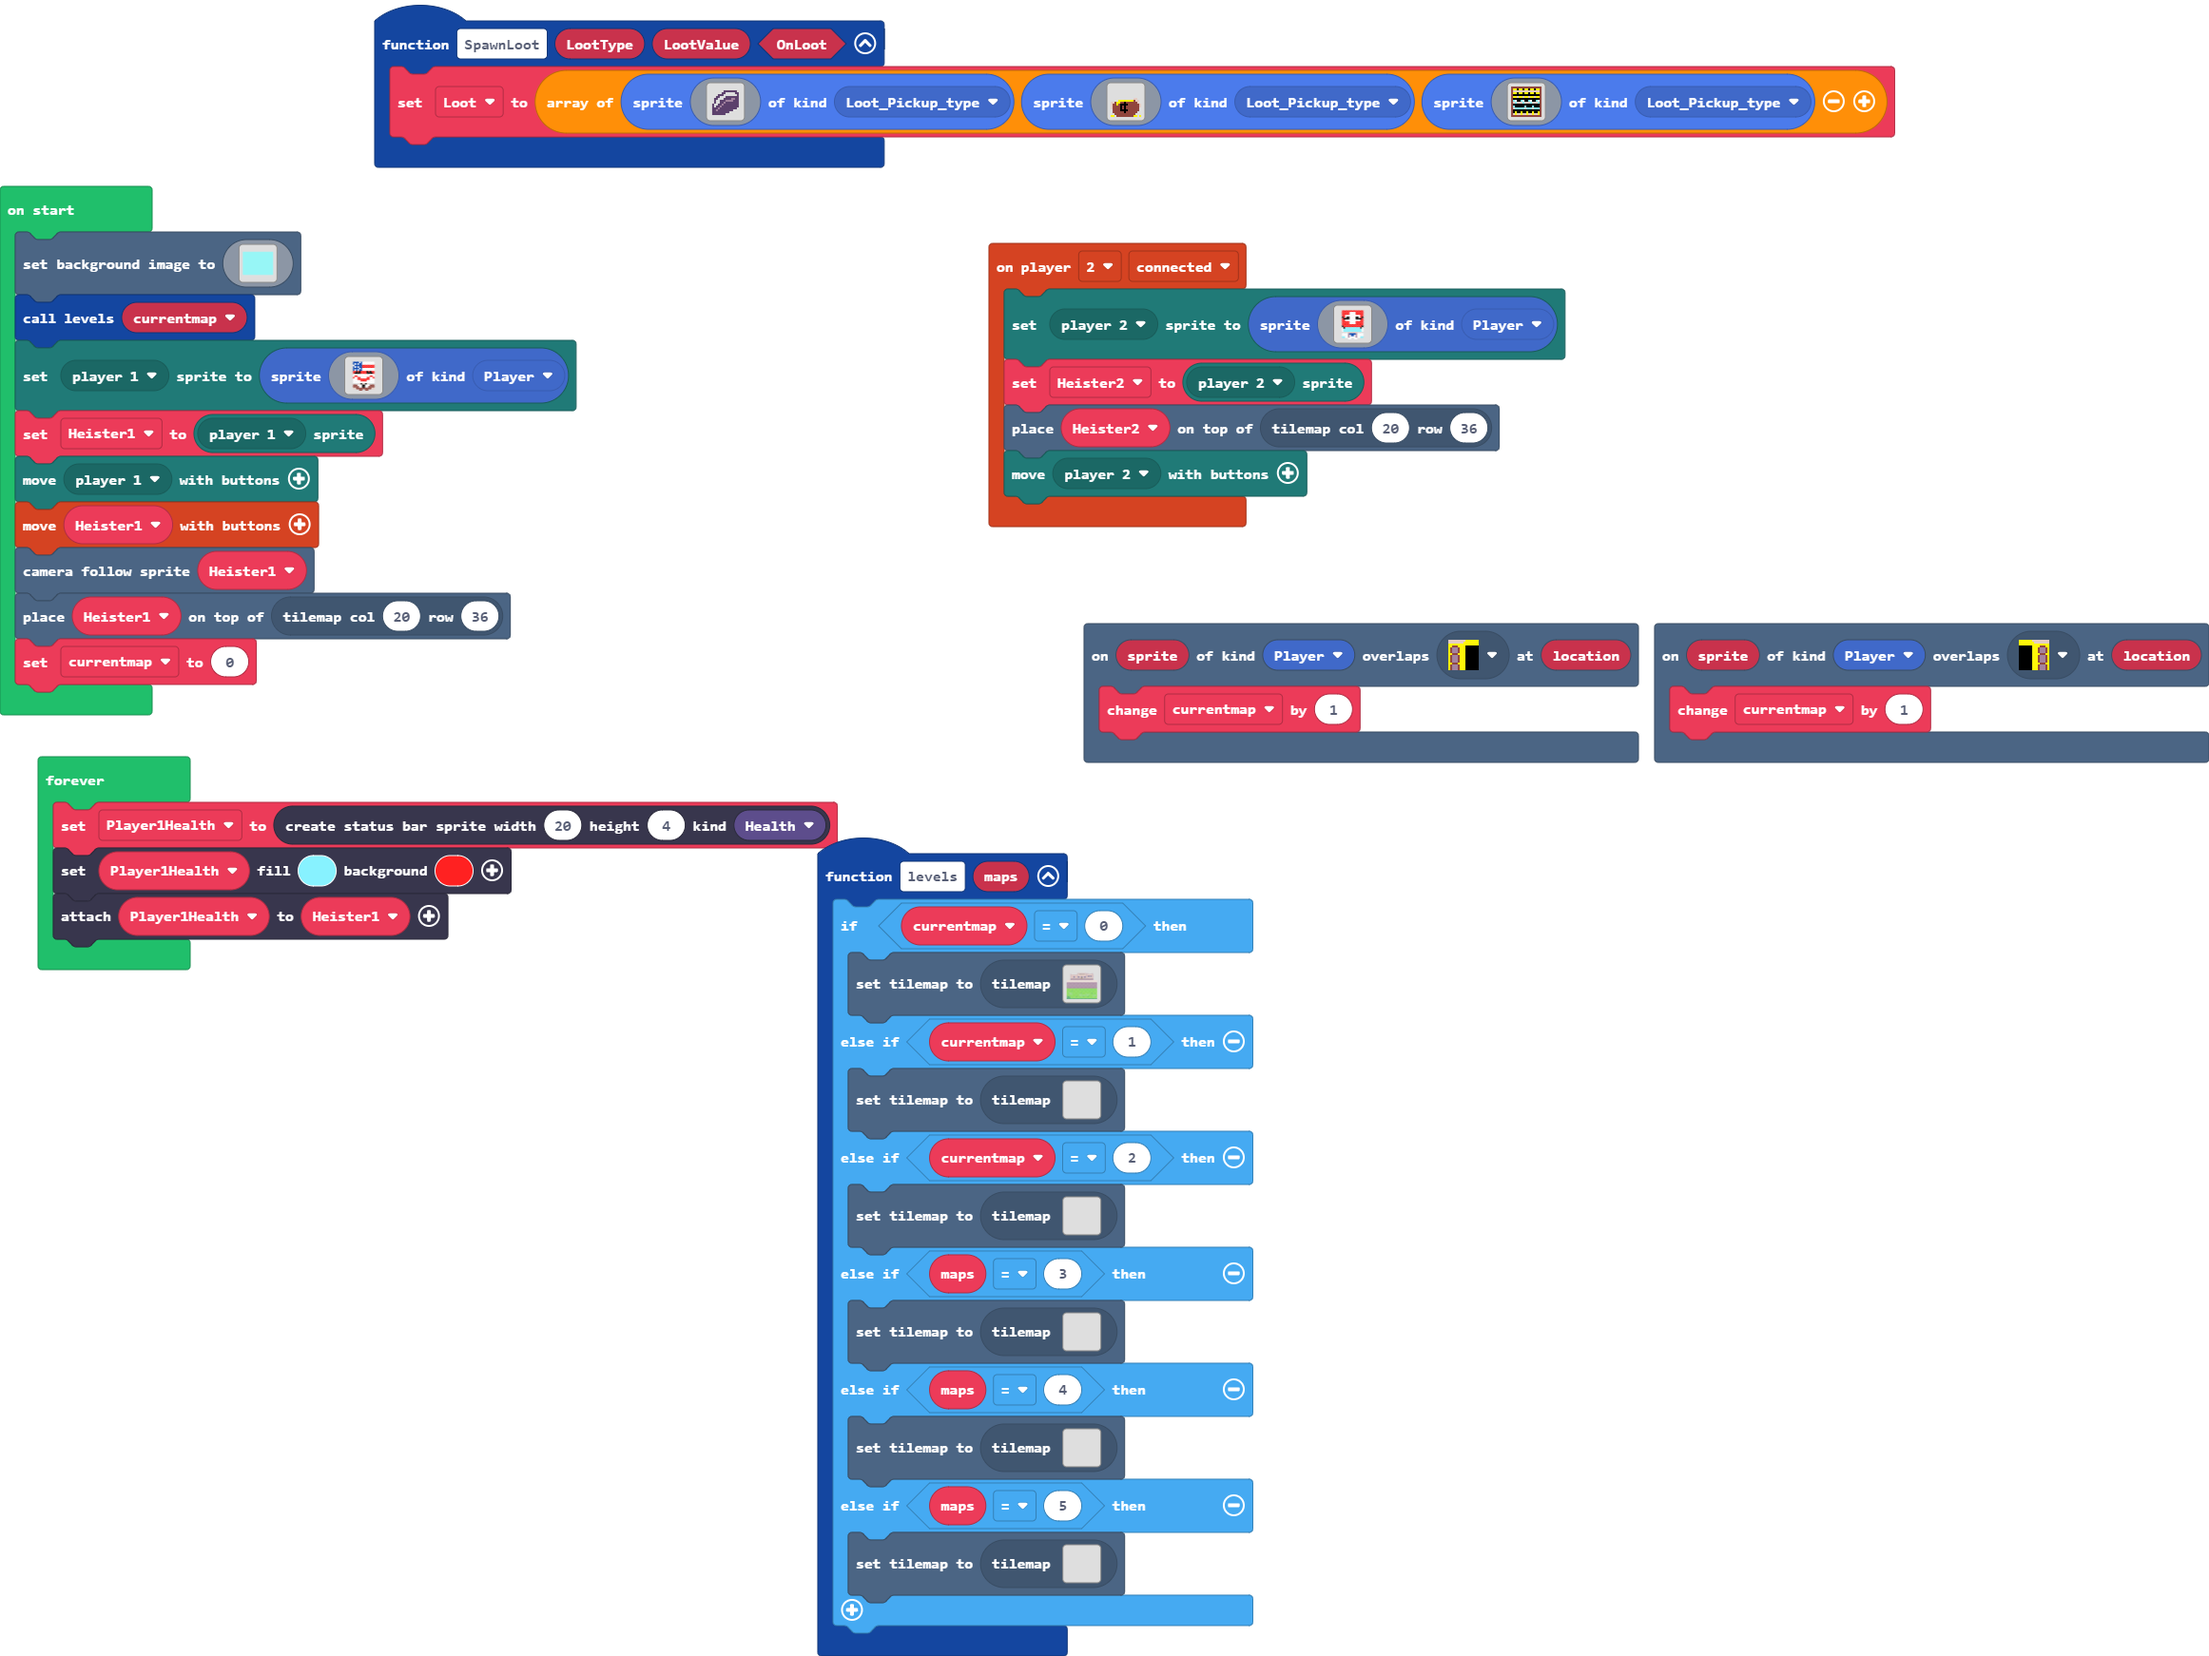
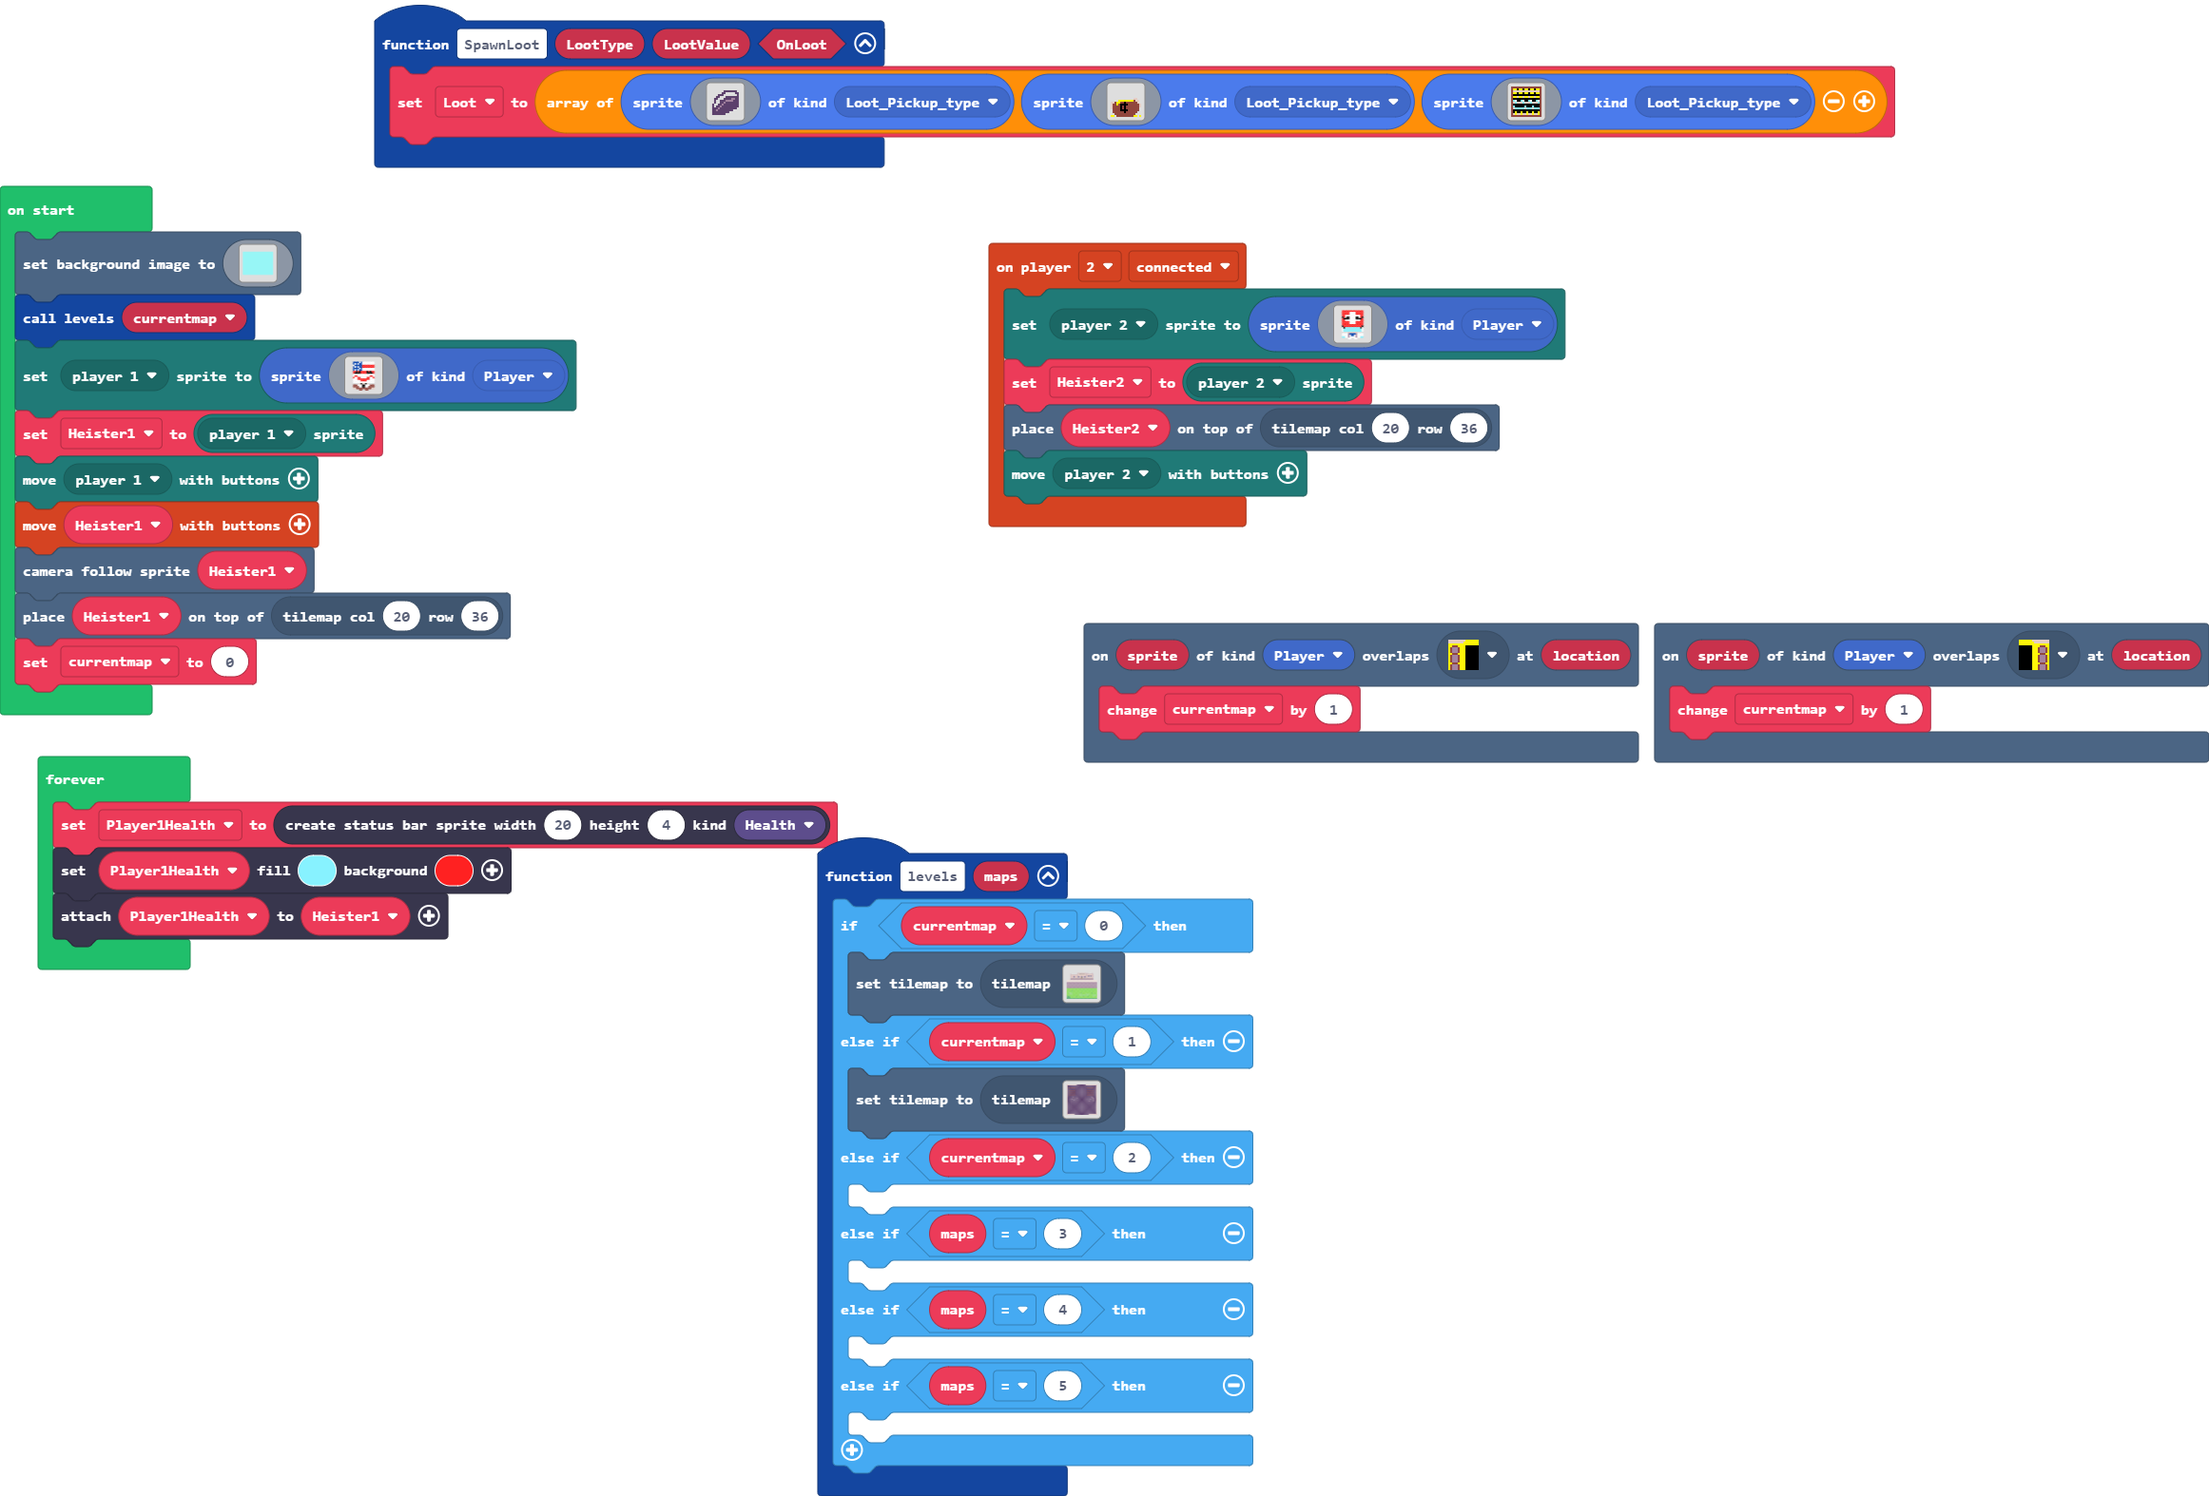
Update main.blocks, main.ts, tilemap.g.jres, tilemap.g.ts

Changed region(s): [[0.0, 0.0934, 1.0, 0.9962], [0.155, 0.0, 0.8678, 0.1245]]

diff --git a/tilemap.g.ts b/tilemap.g.ts
@@ -66,6 +66,24 @@ namespace myTiles {
     export const tile31 = image.ofBuffer(hex``);
     //% fixedInstance jres blockIdentity=images._tile
     export const tile32 = image.ofBuffer(hex``);
+    //% fixedInstance jres blockIdentity=images._tile
+    export const tile39 = image.ofBuffer(hex``);
+    //% fixedInstance jres blockIdentity=images._tile
+    export const tile33 = image.ofBuffer(hex``);
+    //% fixedInstance jres blockIdentity=images._tile
+    export const tile34 = image.ofBuffer(hex``);
+    //% fixedInstance jres blockIdentity=images._tile
+    export const tile35 = image.ofBuffer(hex``);
+    //% fixedInstance jres blockIdentity=images._tile
+    export const tile36 = image.ofBuffer(hex``);
+    //% fixedInstance jres blockIdentity=images._tile
+    export const tile37 = image.ofBuffer(hex``);
+    //% fixedInstance jres blockIdentity=images._tile
+    export const tile38 = image.ofBuffer(hex``);
+    //% fixedInstance jres blockIdentity=images._tile
+    export const tile40 = image.ofBuffer(hex``);
+    //% fixedInstance jres blockIdentity=images._tile
+    export const tile41 = image.ofBuffer(hex``);
 
     helpers._registerFactory("tilemap", function(name: string) {
         switch(helpers.stringTrim(name)) {
@@ -530,39 +548,6 @@ namespace myTiles {
 . . . . . . . . . . . . . . . . 
 . . . . . . . . . . . . . . . . 
 `, [myTiles.transparency16], TileScale.Sixteen);
-            case "level23":
[1 lines of base64/hex data omitted]
-..............................
-..............................
-..............................
-..............................
-..............................
-..............................
-..............................
-..............................
-..............................
-..............................
-..............................
-..............................
-..............................
-..............................
-..............................
-..............................
-..............................
-..............................
-..............................
-..............................
-..............................
-..............................
-..............................
-..............................
-..............................
-..............................
-..............................
-..............................
-..............................
-..............................
-`, [myTiles.transparency16], TileScale.Sixteen);
             case "level24":
             case "level24":return tiles.createTilemap(hex`1000100000000000000000000000000000000000000000000000000000000000000000000000000000000000000000000000000000000000000000000000000000000000000000000000000000000000000000000000000000000000000000000000000000000000000000000000000000000000000000000000000000000000000000000000000000000000000000000000000000000000000000000000000000000000000000000000000000000000000000000000000000000000000000000000000000000000000000000000000000000000000000000000000000000000000000000000000000000000000000000000000000000000000000000000000000000000`, img`
 . . . . . . . . . . . . . . . . 
@@ -622,6 +607,115 @@ namespace myTiles {
 `, [myTiles.transparency16], TileScale.Sixteen);
             case "level27":
             case "level27":return tiles.createTilemap(hex`1000100000000000000000000000000000000000000000000000000000000000000000000000000000000000000000000000000000000000000000000000000000000000000000000000000000000000000000000000000000000000000000000000000000000000000000000000000000000000000000000000000000000000000000000000000000000000000000000000000000000000000000000000000000000000000000000000000000000000000000000000000000000000000000000000000000000000000000000000000000000000000000000000000000000000000000000000000000000000000000000000000000000000000000000000000000000000`, img`
+. . . . . . . . . . . . . . . . 
+. . . . . . . . . . . . . . . . 
+. . . . . . . . . . . . . . . . 
+. . . . . . . . . . . . . . . . 
+. . . . . . . . . . . . . . . . 
+. . . . . . . . . . . . . . . . 
+. . . . . . . . . . . . . . . . 
+. . . . . . . . . . . . . . . . 
+. . . . . . . . . . . . . . . . 
+. . . . . . . . . . . . . . . . 
+. . . . . . . . . . . . . . . . 
+. . . . . . . . . . . . . . . . 
+. . . . . . . . . . . . . . . . 
+. . . . . . . . . . . . . . . . 
+. . . . . . . . . . . . . . . . 
+. . . . . . . . . . . . . . . . 
+`, [myTiles.transparency16], TileScale.Sixteen);
+            case "bank_main_area":
[1 lines of base64/hex data omitted]
+2222222222.........22222222222
+2............................2
+2............................2
+2.2222222...........2222222..2
+2............................2
+2............................2
+2.2222222...........2222222..2
+2............................2
+2.2222222...........2222222..2
+2............................2
+2.2222222...........2222222..2
+2............................2
+2.....2.................22...2
+2......2..2..............22..2
+2....2.................2..2..2
+2......2..................2..2
+2.....................2.2.2..2
+2............................2
+2............................2
+2............................2
+2............................2
+2............................2
+2............................2
+2............................2
+2............................2
+2............................2
+2............................2
+2............................2
+2............................2
+22222222..............22222222
+`, [myTiles.transparency16,sprites.dungeon.darkGroundCenter,sprites.dungeon.darkGroundNorthWest0,sprites.dungeon.darkGroundSouth,sprites.dungeon.darkGroundSouthWest0,sprites.dungeon.darkGroundWest,sprites.dungeon.darkGroundEast,sprites.dungeon.darkGroundSouthEast0,sprites.dungeon.darkGroundNorthEast0,sprites.dungeon.darkGroundNorth,sprites.dungeon.floorLight0,myTiles.tile33,myTiles.tile34,myTiles.tile35,sprites.dungeon.floorDark3,myTiles.tile36,myTiles.tile37,sprites.dungeon.darkGroundSouthEast1,sprites.dungeon.darkGroundSouthWest1,myTiles.tile38,myTiles.tile41], TileScale.Sixteen);
+            case "level28":
+            case "level28":return tiles.createTilemap(hex`1000100000000000000000000000000000000000000000000000000000000000000000000000000000000000000000000000000000000000000000000000000000000000000000000000000000000000000000000000000000000000000000000000000000000000000000000000000000000000000000000000000000000000000000000000000000000000000000000000000000000000000000000000000000000000000000000000000000000000000000000000000000000000000000000000000000000000000000000000000000000000000000000000000000000000000000000000000000000000000000000000000000000000000000000000000000000000`, img`
+. . . . . . . . . . . . . . . . 
+. . . . . . . . . . . . . . . . 
+. . . . . . . . . . . . . . . . 
+. . . . . . . . . . . . . . . . 
+. . . . . . . . . . . . . . . . 
+. . . . . . . . . . . . . . . . 
+. . . . . . . . . . . . . . . . 
+. . . . . . . . . . . . . . . . 
+. . . . . . . . . . . . . . . . 
+. . . . . . . . . . . . . . . . 
+. . . . . . . . . . . . . . . . 
+. . . . . . . . . . . . . . . . 
+. . . . . . . . . . . . . . . . 
+. . . . . . . . . . . . . . . . 
+. . . . . . . . . . . . . . . . 
+. . . . . . . . . . . . . . . . 
+`, [myTiles.transparency16], TileScale.Sixteen);
+            case "level29":
+            case "level29":return tiles.createTilemap(hex`1000100000000000000000000000000000000000000000000000000000000000000000000000000000000000000000000000000000000000000000000000000000000000000000000000000000000000000000000000000000000000000000000000000000000000000000000000000000000000000000000000000000000000000000000000000000000000000000000000000000000000000000000000000000000000000000000000000000000000000000000000000000000000000000000000000000000000000000000000000000000000000000000000000000000000000000000000000000000000000000000000000000000000000000000000000000000000`, img`
+. . . . . . . . . . . . . . . . 
+. . . . . . . . . . . . . . . . 
+. . . . . . . . . . . . . . . . 
+. . . . . . . . . . . . . . . . 
+. . . . . . . . . . . . . . . . 
+. . . . . . . . . . . . . . . . 
+. . . . . . . . . . . . . . . . 
+. . . . . . . . . . . . . . . . 
+. . . . . . . . . . . . . . . . 
+. . . . . . . . . . . . . . . . 
+. . . . . . . . . . . . . . . . 
+. . . . . . . . . . . . . . . . 
+. . . . . . . . . . . . . . . . 
+. . . . . . . . . . . . . . . . 
+. . . . . . . . . . . . . . . . 
+. . . . . . . . . . . . . . . . 
+`, [myTiles.transparency16], TileScale.Sixteen);
+            case "level30":
+            case "level30":return tiles.createTilemap(hex`1000100000000000000000000000000000000000000000000000000000000000000000000000000000000000000000000000000000000000000000000000000000000000000000000000000000000000000000000000000000000000000000000000000000000000000000000000000000000000000000000000000000000000000000000000000000000000000000000000000000000000000000000000000000000000000000000000000000000000000000000000000000000000000000000000000000000000000000000000000000000000000000000000000000000000000000000000000000000000000000000000000000000000000000000000000000000000`, img`
+. . . . . . . . . . . . . . . . 
+. . . . . . . . . . . . . . . . 
+. . . . . . . . . . . . . . . . 
+. . . . . . . . . . . . . . . . 
+. . . . . . . . . . . . . . . . 
+. . . . . . . . . . . . . . . . 
+. . . . . . . . . . . . . . . . 
+. . . . . . . . . . . . . . . . 
+. . . . . . . . . . . . . . . . 
+. . . . . . . . . . . . . . . . 
+. . . . . . . . . . . . . . . . 
+. . . . . . . . . . . . . . . . 
+. . . . . . . . . . . . . . . . 
+. . . . . . . . . . . . . . . . 
+. . . . . . . . . . . . . . . . 
+. . . . . . . . . . . . . . . . 
+`, [myTiles.transparency16], TileScale.Sixteen);
+            case "level31":
+            case "level31":return tiles.createTilemap(hex`1000100000000000000000000000000000000000000000000000000000000000000000000000000000000000000000000000000000000000000000000000000000000000000000000000000000000000000000000000000000000000000000000000000000000000000000000000000000000000000000000000000000000000000000000000000000000000000000000000000000000000000000000000000000000000000000000000000000000000000000000000000000000000000000000000000000000000000000000000000000000000000000000000000000000000000000000000000000000000000000000000000000000000000000000000000000000000`, img`
 . . . . . . . . . . . . . . . . 
 . . . . . . . . . . . . . . . . 
 . . . . . . . . . . . . . . . . 
@@ -707,6 +801,24 @@ namespace myTiles {
             case "tile31":return tile31;
             case "myTile22":
             case "tile32":return tile32;
+            case "myTile29":
+            case "tile39":return tile39;
+            case "Bank_desk":
+            case "tile33":return tile33;
+            case "bank_tile_deskother":
+            case "tile34":return tile34;
+            case "blank_bank_tile":
+            case "tile35":return tile35;
+            case "fallen_roof1":
+            case "tile36":return tile36;
+            case "other_fallentile2":
+            case "tile37":return tile37;
+            case "rope_tile":
+            case "tile38":return tile38;
+            case "myTile23":
+            case "tile40":return tile40;
+            case "endofmainarea":
+            case "tile41":return tile41;
         }
         return null;
     })

diff --git a/main.ts b/main.ts
@@ -14,15 +14,15 @@ function levels (maps: number) {
     if (currentmap == 0) {
         tiles.setCurrentTilemap(tilemap`Prototype_bank_entrance`)
     } else if (currentmap == 1) {
-        tiles.setCurrentTilemap(tilemap`level23`)
+        tiles.setCurrentTilemap(tilemap`bank_main_area`)
     } else if (currentmap == 2) {
-        tiles.setCurrentTilemap(tilemap`level23`)
+    	
     } else if (maps == 3) {
-        tiles.setCurrentTilemap(tilemap`level23`)
+    	
     } else if (maps == 4) {
-        tiles.setCurrentTilemap(tilemap`level23`)
+    	
     } else if (maps == 5) {
-        tiles.setCurrentTilemap(tilemap`level23`)
+    	
     }
 }
 controller.player2.onEvent(ControllerEvent.Connected, function () {
